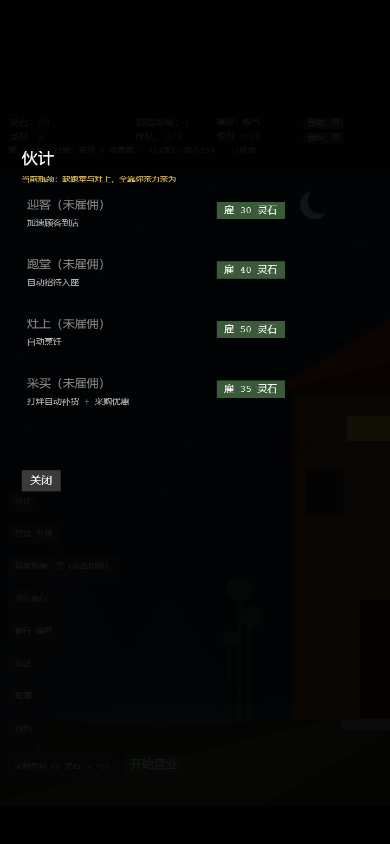
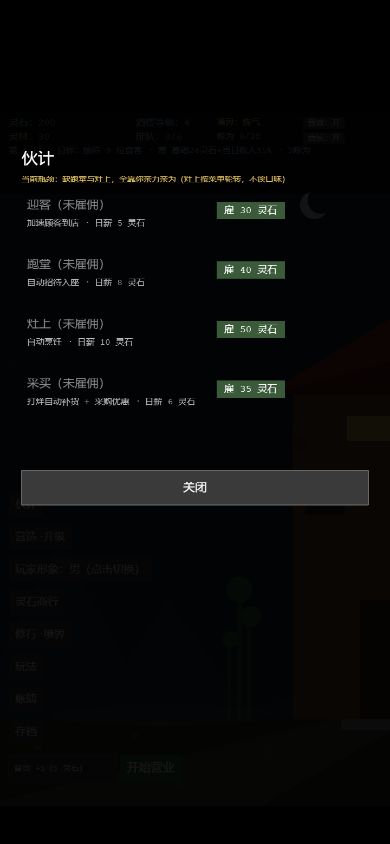
第四轮盲测修复：大号关闭条、出菜行放大、形象按钮命中区
- 六个二级页改为底部 640×64 关闭条；实测伙计/营造/商行/修行/账簿/玩法均一次关闭
- 出菜行上移放大（16px、行距 58、可点余量 3），点菜名上缘也能出菜
- 选形象按钮 28→32px、内边距与命中区加大
- 修复 expandHitArea 对已 setInteractive 文本不生效：之前扩大的命中区实际没应用
- 目标奖励文案改为「基础 X 灵石 + 当日收入 15%」，避免与结算金额对不上
- 截图与试玩记录同步第四轮（设计 6/10、休闲 6/10）

测试：46 条单测、tsc、生产构建通过；390×844 headless 复测六面板关闭、出菜上缘点击、形象按钮下缘点击。

diff --git a/src/main.ts b/src/main.ts
@@ -528,10 +528,10 @@ class TavernScene extends Phaser.Scene {
     const pick = (x: number, label: string, gender: "male" | "female", color: string) => {
       const btn = this.add
         .text(x, 360, label, {
-          fontSize: "28px",
+          fontSize: "32px",
           color: "#ffffff",
           backgroundColor: color,
-          padding: { x: 40, y: 24 },
+          padding: { x: 40, y: 28 },
         })
         .setInteractive({ useHandCursor: true })
         .on("pointerdown", () => {
@@ -541,6 +541,7 @@ class TavernScene extends Phaser.Scene {
           this.showHelp();
         });
       layer.add(btn);
+      this.expandHitArea(btn, 18);
     };
     pick(120, "男", "male", "#3f5a7a");
     pick(400, "女", "female", "#7a3f5a");
@@ -1019,17 +1020,18 @@ class TavernScene extends Phaser.Scene {
     this.serveButton = this.addUiButton(346, 1186, () => this.startSeat("player"), { x: 14, y: 16 }, 6, "20px");
     this.cookButton = this.addUiButton(460, 1186, () => this.manualCook(), { x: 14, y: 16 }, 6, "20px");
     // 出菜行：点哪道菜就做哪道，优先端给想吃它的那一桌
-    this.dishChipLabel = this.addUiText(16, 1102, "出菜", "13px", "#bbbbbb");
+    this.dishChipLabel = this.addUiText(16, 1036, "出菜 · 点菜名", "15px", "#bbbbbb");
     this.dishChips = DISHES.map((_, i) =>
       this.addUiButton(
         56 + (i % 4) * 150,
-        1096 + Math.floor(i / 4) * 42,
+        1070 + Math.floor(i / 4) * 58,
         () => {
           const dish = this.getMenuDishes()[i];
           if (dish) this.manualCookDish(dish);
         },
-        { x: 12, y: 11 },
-        2,
+        { x: 10, y: 14 },
+        3,
+        "16px",
       ),
     );
     this.dishChips.forEach((chip) => chip.setVisible(false));
@@ -1075,11 +1077,31 @@ class TavernScene extends Phaser.Scene {
 
   /** 给手写的文本按钮加一圈可点余量，避免只点中文字本身。 */
   private expandHitArea(t: Phaser.GameObjects.Text, expand = 10) {
+    // 已经 setInteractive 过的文本再传新的形状不会替换旧命中区，直接改 input.hitArea。
+    if (t.input) {
+      t.input.hitArea.setTo(-expand, -expand, t.width + expand * 2, t.height + expand * 2);
+      t.input.cursor = "pointer";
+      return;
+    }
     t.setInteractive(
       new Phaser.Geom.Rectangle(-expand, -expand, t.width + expand * 2, t.height + expand * 2),
       Phaser.Geom.Rectangle.Contains,
     );
-    if (t.input) t.input.cursor = "pointer";
+  }
+
+  /** 副屏底部的大号关闭条：不再要求点中小字「关闭」。 */
+  private addOverlayClose(layer: Phaser.GameObjects.Container, y: number, label = "关闭") {
+    layer.add(
+      this.add
+        .rectangle(40, y, 640, 64, 0x3a3a3a)
+        .setOrigin(0, 0)
+        .setStrokeStyle(2, 0x666666)
+        .setInteractive({ useHandCursor: true })
+        .on("pointerup", () => this.destroyOverlay()),
+    );
+    layer.add(
+      this.add.text(360, y + 32, label, { fontSize: "22px", color: "#ffffff" }).setOrigin(0.5),
+    );
   }
 
   private addUiButton(
@@ -1453,7 +1475,7 @@ class TavernScene extends Phaser.Scene {
       this.add.text(
         40,
         148,
-        `今日目标：${goal.label} · 库存 ${this.inventory} · 奖励 ${goal.rewardCoins} 灵石 + 收入 15% / ${goal.rewardCultivation} 修为`,
+        `今日目标：${goal.label} · 库存 ${this.inventory} · 奖励：基础 ${goal.rewardCoins} 灵石 + 当日收入 15% · ${goal.rewardCultivation} 修为`,
         { fontSize: "15px", color: "#e0c060", wordWrap: { width: 640 } },
       ),
     );
@@ -1839,17 +1861,7 @@ class TavernScene extends Phaser.Scene {
       );
     });
 
-    layer.add(
-      this.add
-        .text(40, 660, "关闭", {
-          fontSize: "20px",
-          color: "#ffffff",
-          backgroundColor: "#3a3a3a",
-          padding: { x: 16, y: 10 },
-        })
-        .setInteractive({ useHandCursor: true })
-        .on("pointerup", () => this.destroyOverlay()),
-    );
+    this.addOverlayClose(layer, 660);
     this.overlay = layer;
   }
 
@@ -1952,17 +1964,7 @@ class TavernScene extends Phaser.Scene {
       }
     });
 
-    const close = this.add
-      .text(40, 660, "关闭", {
-        fontSize: "20px",
-        color: "#ffffff",
-        backgroundColor: "#3a3a3a",
-        padding: { x: 16, y: 10 },
-      })
-      .setInteractive({ useHandCursor: true })
-      .on("pointerup", () => this.destroyOverlay());
-    layer.add(close);
-    this.expandHitArea(close, 14);
+    this.addOverlayClose(layer, 660);
     this.overlay = layer;
   }
 
@@ -2041,17 +2043,7 @@ class TavernScene extends Phaser.Scene {
           .on("pointerup", () => this.buildAscendConfirmOverlay()),
       );
     }
-    layer.add(
-      this.add
-        .text(maxed ? 300 : 40, 780, "关闭", {
-          fontSize: "20px",
-          color: "#ffffff",
-          backgroundColor: "#3a3a3a",
-          padding: { x: 16, y: 10 },
-        })
-        .setInteractive({ useHandCursor: true })
-        .on("pointerup", () => this.destroyOverlay()),
-    );
+    this.addOverlayClose(layer, 870);
     this.overlay = layer;
   }
 
@@ -2176,16 +2168,7 @@ class TavernScene extends Phaser.Scene {
       }
     });
 
-    const close = this.add
-      .text(40, 620, "关闭", {
-        fontSize: "20px",
-        color: "#ffffff",
-        backgroundColor: "#3a3a3a",
-        padding: { x: 16, y: 10 },
-      })
-      .setInteractive({ useHandCursor: true })
-      .on("pointerup", () => this.destroyOverlay());
-    layer.add(close);
+    this.addOverlayClose(layer, 620);
     this.overlay = layer;
   }
 
@@ -2456,17 +2439,7 @@ class TavernScene extends Phaser.Scene {
         }),
       );
     });
-    layer.add(
-      this.add
-        .text(40, 650, "知道了，去营生", {
-          fontSize: "20px",
-          color: "#ffffff",
-          backgroundColor: "#3f5a7a",
-          padding: { x: 16, y: 10 },
-        })
-        .setInteractive({ useHandCursor: true })
-        .on("pointerup", () => this.destroyOverlay()),
-    );
+    this.addOverlayClose(layer, 650, "知道了，去营生");
     this.overlay = layer;
   }
 
@@ -2526,17 +2499,7 @@ class TavernScene extends Phaser.Scene {
       );
     });
 
-    layer.add(
-      this.add
-        .text(40, 740, "关闭", {
-          fontSize: "20px",
-          color: "#ffffff",
-          backgroundColor: "#3a3a3a",
-          padding: { x: 16, y: 10 },
-        })
-        .setInteractive({ useHandCursor: true })
-        .on("pointerup", () => this.destroyOverlay()),
-    );
+    this.addOverlayClose(layer, 740);
     this.overlay = layer;
   }
 
@@ -3585,7 +3548,7 @@ class TavernScene extends Phaser.Scene {
     } else {
       const goal = this.currentDayGoal();
       this.sessionText.setText(
-        `第 ${this.day} 日 · 目标：${goal.label} · +${goal.rewardCoins}灵石+收入15% · +${goal.rewardCultivation}修为`,
+        `第 ${this.day} 日 · 目标：${goal.label} · 赏 基础${goal.rewardCoins}灵石+当日收入15% · ${goal.rewardCultivation}修为`,
       );
       this.goalText.setText("");
     }

diff --git a/docs/playtest.md b/docs/playtest.md
@@ -23,7 +23,7 @@
 
 ## 独立盲测与修复
 
-本轮做了三轮独立盲测（一个是“苛刻的经营管理游戏设计师”，一个是“没看过源码的休闲手机玩家”；两者都被要求实际驱动游戏、不给通用建议）。第一轮修复前分数分别是 **4/10** 和 **3/10**；第二轮（修复后复测）两人都给 **5/10**；第三轮（当前版本）设计师 **5.5/10**、休闲玩家 **6/10**。主要结论与对应修复：
+本轮做了四轮独立盲测（一个是“苛刻的经营管理游戏设计师”，一个是“没看过源码的休闲手机玩家”；两者都被要求实际驱动游戏、不给通用建议）。第一轮修复前分数分别是 **4/10** 和 **3/10**；第二轮两人都给 **5/10**；第三轮 **5.5/10** 与 **6/10**；第四轮（当前版本）两人都给 **6/10**。主要结论与对应修复：
 
 | 盲测指出的问题 | 修复 |
 |---|---|
@@ -46,8 +46,12 @@
 | 第三次盲测：雇工只写雇价，日薪到结算才知道 | 未雇佣行补「日薪 X 灵石」，伙计面板顶部补「灶上按菜单轮转，不读口味」 |
 | 第三次盲测：候客仍只在右缘露半身 | 队列基准位 390→350、间距 70→52；单人候客屏幕 x≈610，两人（610/662）都在 720 画布内 |
 | 第三次盲测：顶部目标文字被右侧裁掉 | 目标文本加 300px 自动换行，主数字/见闻录字号再上调（见闻录 18px），状态栏高度 104→150 让三行记录落在深色底上 |
+| 第四次盲测：伙计/营造等面板的「关闭」多点不中 | 六个二级页统一改为底部 640×64 大关闭条，点条内任意位置关闭；390×844 实测伙计、营造、商行、修行、账簿、玩法六页均一次关闭 |
+| 第四次盲测：出菜行点菜名上缘无反应，按钮太小 | 出菜行上移并放大（16px 字号、约 52 设计高、可点余量 3），提示改为「出菜 · 点菜名」；实测点第一道菜上缘（110,1080）成功进入玩家烹饪 |
+| 第四次盲测：选形象按钮下缘点不中，弹窗像自己关了 | 字号 28→32、内边距加大、命中区 +18px；实测点女按钮下缘（455,448）选中女性。同时修复了 `expandHitArea` 对已 `setInteractive` 文本不生效的问题——之前写的扩大命中区其实没生效 |
+| 第四次盲测：菜单写「+12 灵石 + 收入 15%」，结算却 +23，费解 | 菜单和打烊视图统一为「奖励：基础 12 灵石 + 当日收入 15%」，明确 15% 是另加的 |
 
-仍保留的盲测意见：手机字号整体偏小（现已把雅座标签 10→12、见闻录 13→15、顶部 HUD 15–18，并给关键反馈加屏幕浮字，但没有做全 UI 字号翻新）；全自动产线仍是“只看不管也能赚灵石”的路线，但**修为只来自亲自下厨**，想飞升必须下场；队列尾部仍要拖动镜头。
+仍保留的盲测意见：手机字号整体偏小（现已把雅座标签 10→12、见闻录 13→18、顶部 HUD 15–20、底栏/导航按钮 15→20，并给关键反馈加屏幕浮字；仍未做全 UI 字号翻新，按钮高度约 28 CSS px，低于 44px 的触控建议值）；全自动产线仍是“只看不管也能赚灵石”的路线，但**修为只来自亲自下厨**，想飞升必须下场；队列尾部仍要拖动镜头。
 
 ### 第二次盲测后的修复复测（2026-10-24，本轮）
 
@@ -74,6 +78,18 @@
 仍然刻意保留、没有改成“惩罚式”设计的两点：
 - 全自动产线仍可 0 操作净赚（第三轮实测 8 位/57 灵石，扣日薪 18 净 39），但口味只命中 1/3、修为 0；想拿满价或飞升必须自己下场。把自动线改成亏损会逼所有玩家微操，和“可挂机看店”的定位冲突。
 - 首日只有 20 灵石，雇不起最便宜的 30 灵石伙计，默认 8 灵材刚好够目标：第一天是教学局，真正的菜单/雇佣/贷款决策从第 2–3 日展开。这是有意的节奏，不是漏做。
+
+### 第四轮盲测（当前版本）
+
+设计师 6/10、休闲玩家 6/10，两人都能完成第 1 天并进入第 2 天。复核结果：
+
+- 0 库存开张：两人均未复现，按钮灰显且无法进入。
+- 目标刷新一致：未复现；第 3 天升 2 级并刷新后仍是「满足 2 位口味」。
+- 队列可见性：设计师称第 4 天「排队 2/4」只看到一人。本机复测两名候客在屏幕设计坐标 x=610/662（720 宽画布内），未复现裁切；猜测是第二名还在 0.7 秒入场行走中截图，未再改动。
+- 关闭：设计师在第 2/3/5 天多次点不中关闭。本版改成底部整条大按钮后，本机脚本对六个二级页各点一次全部关闭；仍未能在真人手指上复验。
+- 按钮大小：设计师量到底栏约 29px 高，仍低于 44px 的移动端建议；这是当前明确的可用性欠账。
+- 出菜：休闲玩家点「清炒灵蔬」上缘（y=1080）没反应，以为上菜坏了。出菜行已上移放大，本机在 y=1080 点第一道菜成功进入玩家烹饪；真机手指仍需复验。
+- 首日没有实质决策仍是两人共同意见：20 灵石、8 灵材、目标 6，唯一稳妥解是直接开张。保留为教学局，没有为了“有决策”而调高首日难度。
 
 ## 自动化质量门
 
